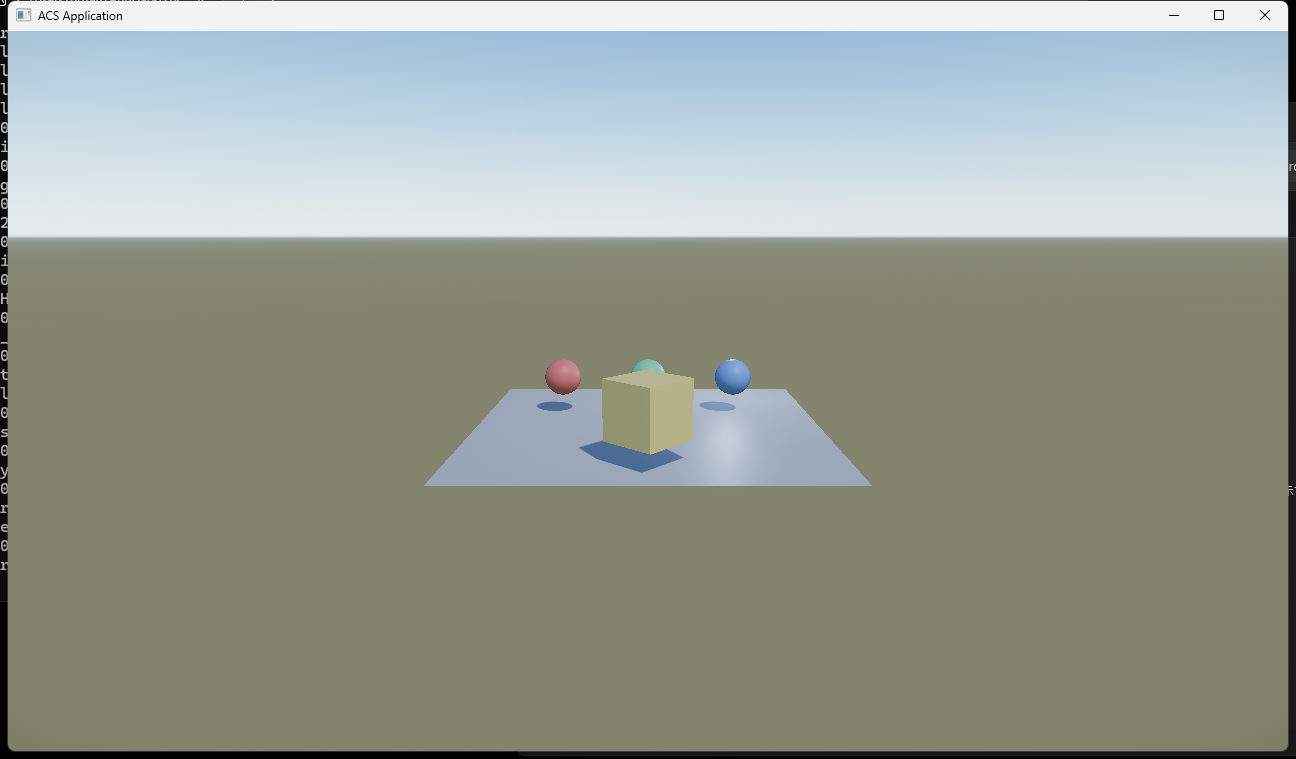
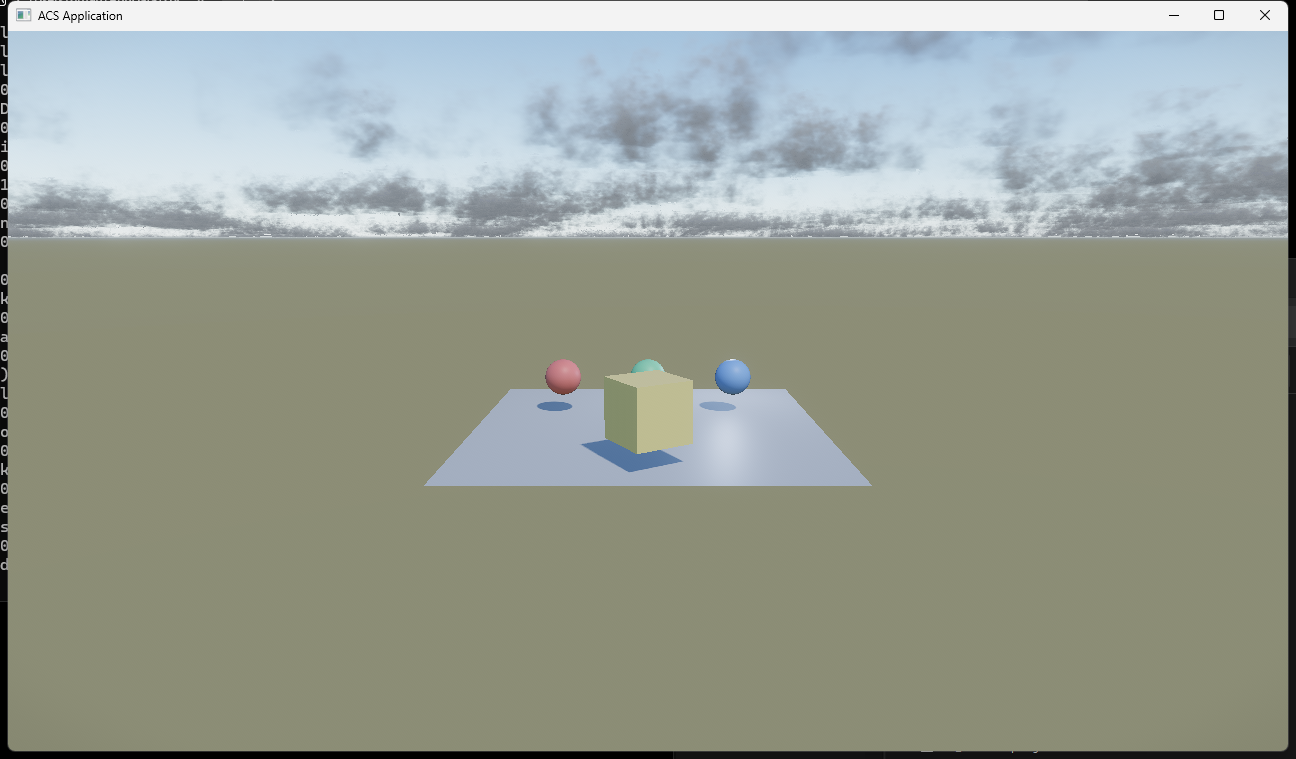
Put real volumetric clouds in the sky
CSky の簡易な雲はノイズにしか見えなかったので出さないことにしたが、ACS には本物
(CVolumetricClouds) が在り、こちらも参照 0 件だった。配線した (acs_temp_doc/0011)。

計算は描画パスの外で回し、合成は最後に **完成したシーンの深度**を使う (手前の物が雲を隠す)。

**エンジンの既定値を借りずに «それらしい値» を置いて 2 度はまった。**

  noise scale  1.0   -> 0.035  細かすぎて塊にならず、雲が出ていないように見えた
  density      1.0   -> 1.6    薄すぎた
  wind         0.02  -> 1.0    ほぼ止まっていた
  render scale 0.5   -> 1.0    ドット感が出た

動いていないのか設定が悪いのか切り分けられなくなる。既定があるなら借りること。
render scale だけは «高品質» の 0.75 ではなく等倍を既定にした。この枠組みは見え方を優先する。

見て分かった癖: カメラがほぼ水平だと雲層を真横から貫くので、地平線の帯だけ粗く見える。
雲の底を上げると目立たなくなる (デモは 2600 にした)。

Claude-Session: https://claude.ai/code/session_01QWWHaYrgcmNEqsp8SUqeVs

Changed region(s): [[0.0, 0.0606, 1.0, 0.3333], [0.4321, 0.5152, 0.5247, 0.6061], [0.679, 0.0303, 0.7407, 0.0909]]

diff --git a/Source/AcsFramework_Sample/Scene/Demo3DScene.cpp b/Source/AcsFramework_Sample/Scene/Demo3DScene.cpp
@@ -79,6 +79,12 @@ void ADemo3DScene::OnEnter() noexcept
 	Fill.SetRange( 14.0f );
 	Root().AddChild( Move( FillNode ) );
 
+	// 本物の雲を出す。太陽の側が明るく、縁が光る。
+	Clouds().Coverage = 0.6f;
+	Clouds().RenderScale = 1.0f;    // 等倍でトレースする。下げるとドット感が出る
+	Clouds().BaseAltitude = 2600.0f;  // 低いと地平線を真横から貫いて、そこだけ粗く見える
+	Clouds().TopAltitude = 5200.0f;
+
 	// 大気が描く «地面» の色を、置いた床に寄せる。ここがずれると、地平線から下だけ
 	// 別の場所の色になり、床の縁で色が切り替わって見える。
 	Atmosphere().ground_albedo = FVec3{ 0.06f, 0.07f, 0.06f };

diff --git a/Docs/ROADMAP.md b/Docs/ROADMAP.md
@@ -85,8 +85,10 @@ Steam (`SteamworksBridge`)、スクリプト (`ScriptHost`)、機械学習 (`MlR
 それがそのまま環境光にもなる**ので、空と光が食い違わない。
 霧・仕上げ・大気・空は場面から触れる (`Fog()` / `PostParams()` / `Atmosphere()` / `Sky()`)。
 
-残り: **本物の雲** (`CVolumetricClouds` は ACS に在るが未配線。簡易な雲はノイズに見えたので出していない)、
-空気遠近、影の CSM 化 (いまは単一 cascade)。
+雲も本物 (`CVolumetricClouds`) が出る。
+
+残り: 雲を環境光と影へ反映 (いまは曇っても地面が暗くならない)、空気遠近、
+影の CSM 化 (いまは単一 cascade)。
 
 - 3D シーンの窓口 — モデルを置く / 動かす / 消す
 - ~~カメラ~~ → **ACS 側へ実装済み** (`FCamera3D`、`acs_temp_doc/0004`)。
